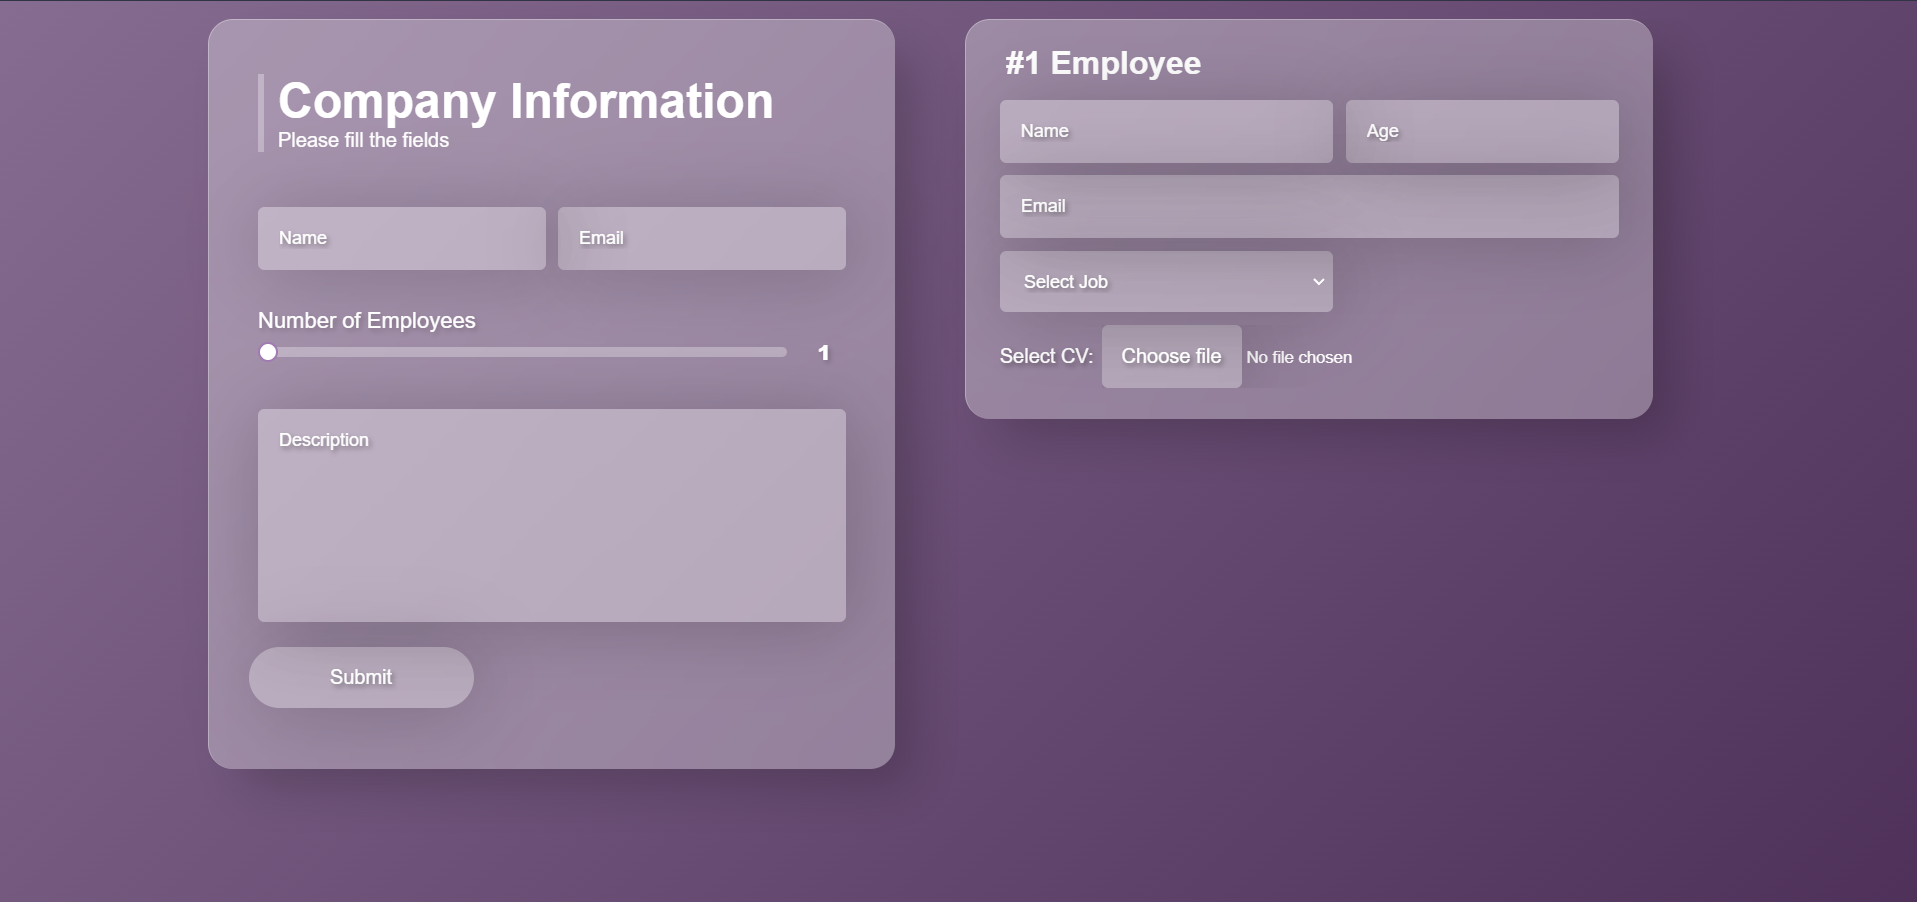
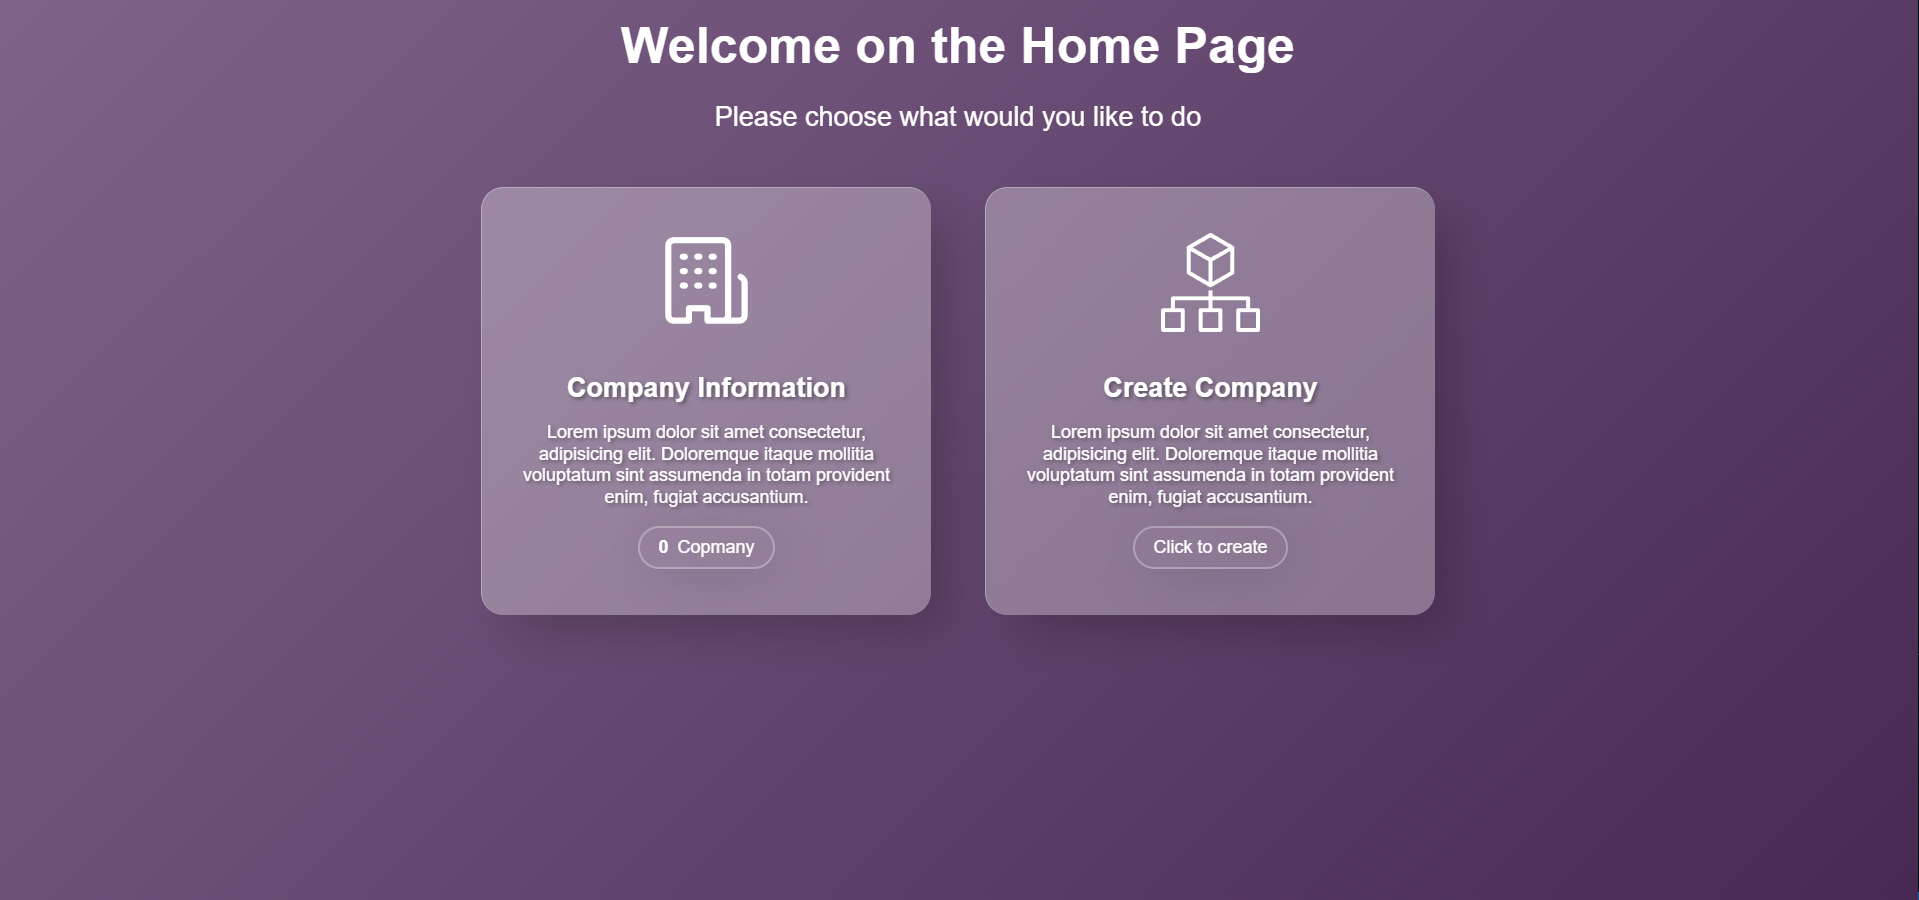
Added new home page

diff --git a/frontend/src/pages/MainPage.tsx b/frontend/src/pages/MainPage.tsx
@@ -1,70 +1,86 @@
-/* 
-  Home page for "/" route.
-*/
-
-import { useState, useEffect } from "react";
-import { useGlobalContext } from "../context";
-/* Import components */
-import CompanyDataForm from "../components/CompanyDataForm";
-import EmployeeDataForm from "../components/EmployeeDataForm";
-import TopScrollButton from "../components/TopScrollButton";
+import React from "react";
+import Background from "../layout/Background";
+import { GoOrganization } from "react-icons/go";
+import { SiAwsorganizations } from "react-icons/si";
+import { useNavigate } from "react-router-dom";
 
 const MainPage = () => {
-  const { numberOfEmployees } = useGlobalContext();
-  const [numberOfForms, setNumberOfForms] = useState<number[]>([]);
+  const navigate = useNavigate();
 
-  useEffect(() => {
-    /* Renders the number of employee forms based on how many employees setted on the slider */
-    setNumberOfForms([]);
-    for (let i = 0; i < numberOfEmployees; ++i) {
-      /* Append the 'i' value to the 'numberOfForms' array */
-      setNumberOfForms((prevForms) => [...prevForms, i]);
-    }
-
-    return () => {};
-  }, [numberOfEmployees]); // if the numberOfEmployees state variable change then re-render this component
   return (
-    <>
-      <TopScrollButton />
-      <div className="container">
-        <section className="company-section section">
-          <CompanyDataForm />
-        </section>
-        <section className="employee-section">
+    <Background>
+      <main
+        style={{
+          color: "white",
+          height: "100%",
+          width: "100%",
+          display: "flex",
+          flexDirection: "column",
+          justifyContent: "center",
+          alignItems: "center",
+          gap: "3rem",
+        }}
+      >
+        <header
+          style={{
+            textAlign: "center",
+            display: "flex",
+            flexDirection: "column",
+            gap: "1.5rem",
+          }}
+        >
+          <h1 style={{ fontSize: "clamp(2.2rem, 5vw, 2.8rem)" }}>
+            Welcome on the Home Page
+          </h1>
+          <p style={{ fontSize: "clamp(1.2rem, 3vw, 1.5rem)" }}>
+            Please choose what would you like to do
+          </p>
+        </header>
+        <section
+          style={{
+            textAlign: "center",
+            display: "flex",
+            justifyContent: "center",
+            flexWrap: "wrap",
+            gap: "3rem",
+          }}
+        >
           <div
-            className="employee-list"
-            onScroll={(e) => {
-              /* if the user scrolls the scrollbar become visible */
-              if (
-                (e.target as HTMLElement).classList.contains("on-scroll") ===
-                false
-              ) {
-                (e.target as HTMLElement).classList.add("on-scroll");
-              }
-            }}
-            onMouseEnter={(e) => {
-              /* Show scrollbar when the mouse enter in this element */
-              (e.target as HTMLElement).classList.add("on-scroll");
-            }}
-            onMouseLeave={(e) => {
-              /* Hide scrollbar when the mouse leave this element */
-              (e.target as HTMLElement).classList.remove("on-scroll");
-            }}
+            className="main-card section"
+            onClick={() => navigate("/companies")}
           >
-            {/* If number of employees is zero then show a message but if it is not zero then render employee forms */}
-            {numberOfEmployees === 0 ? (
-              <h4 className="zero-employee">Number of Employees is zero!</h4>
-            ) : (
-              numberOfForms.map((employeeForm, index) => {
-                return (
-                  <EmployeeDataForm key={index} number={employeeForm + 1} />
-                );
-              })
-            )}
+            <div className="main-card-icon">
+              <GoOrganization />
+            </div>
+            <span className="main-card-title">Company Information</span>
+            <p className="main-card-description">
+              Lorem ipsum dolor sit amet consectetur, adipisicing elit.
+              Doloremque itaque mollitia voluptatum sint assumenda in totam
+              provident enim, fugiat accusantium.
+            </p>
+            <div className="main-page-indicator">
+              <span style={{ fontWeight: "600" }}>0</span>
+              <span>Copmany</span>
+            </div>
+          </div>
+          <div
+            className="main-card section"
+            onClick={() => navigate("/create-company")}
+          >
+            <div className="main-card-icon">
+              <SiAwsorganizations />
+            </div>
+            <span className="main-card-title">Create Company</span>
+            <p className="main-card-description">
+              Lorem ipsum dolor sit amet consectetur, adipisicing elit.
+              Doloremque itaque mollitia voluptatum sint assumenda in totam
+              provident enim, fugiat accusantium.
+            </p>
+            <div className="main-page-indicator">Click to create</div>
           </div>
         </section>
-      </div>
-    </>
+      </main>
+    </Background>
   );
 };
 

diff --git a/frontend/src/pages/CreateCompanyWithEmployees.tsx b/frontend/src/pages/CreateCompanyWithEmployees.tsx
@@ -1,0 +1,72 @@
+/* 
+  Page for "/create-company" route.
+*/
+
+import { useState, useEffect } from "react";
+import { useGlobalContext } from "../context";
+/* Import components */
+import CompanyDataForm from "../components/CompanyDataForm";
+import EmployeeDataForm from "../components/EmployeeDataForm";
+import TopScrollButton from "../components/TopScrollButton";
+import Background from "../layout/Background";
+
+const CreateCompanyWithEmployees = () => {
+  const { numberOfEmployees } = useGlobalContext();
+  const [numberOfForms, setNumberOfForms] = useState<number[]>([]);
+
+  useEffect(() => {
+    /* Renders the number of employee forms based on how many employees setted on the slider */
+    setNumberOfForms([]);
+    for (let i = 0; i < numberOfEmployees; ++i) {
+      /* Append the 'i' value to the 'numberOfForms' array */
+      setNumberOfForms((prevForms) => [...prevForms, i]);
+    }
+
+    return () => {};
+  }, [numberOfEmployees]); // if the numberOfEmployees state variable change then re-render this component
+  return (
+    <>
+      <TopScrollButton />
+      <Background>
+        <section className="company-section section">
+          <CompanyDataForm />
+        </section>
+        <section className="employee-section">
+          <div
+            className="employee-list"
+            onScroll={(e) => {
+              /* if the user scrolls the scrollbar become visible */
+              if (
+                (e.target as HTMLElement).classList.contains("on-scroll") ===
+                false
+              ) {
+                (e.target as HTMLElement).classList.add("on-scroll");
+              }
+            }}
+            onMouseEnter={(e) => {
+              /* Show scrollbar when the mouse enter in this element */
+              (e.target as HTMLElement).classList.add("on-scroll");
+            }}
+            onMouseLeave={(e) => {
+              /* Hide scrollbar when the mouse leave this element */
+              (e.target as HTMLElement).classList.remove("on-scroll");
+            }}
+          >
+            {/* If number of employees is zero then show a message but if it is not zero then render employee forms */}
+            {numberOfEmployees === 0 ? (
+              <h4 className="zero-employee">Number of Employees is zero!</h4>
+            ) : (
+              numberOfForms.map((employeeForm, index) => {
+                return (
+                  <EmployeeDataForm key={index} number={employeeForm + 1} />
+                );
+              })
+            )}
+          </div>
+        </section>
+      </Background>
+    </>
+  );
+};
+
+export default CreateCompanyWithEmployees;

diff --git a/frontend/src/style/mainPage.css b/frontend/src/style/mainPage.css
@@ -1,0 +1,46 @@
+.main-card {
+  width: 400px;
+  height: 380px;
+
+  display: flex;
+  gap: 1rem;
+  flex-direction: column;
+  justify-content: center;
+  align-items: center;
+  cursor: pointer;
+  transition: transform 0.3s ease-in-out;
+}
+@media screen and (max-width: 768px) {
+  .main-card {
+    width: 95%;
+  }
+}
+.main-card:hover {
+  transform: scale(1.05);
+}
+.main-card-icon {
+  font-size: 5.5rem;
+}
+.main-card-title {
+  font-size: 1.5rem;
+  font-weight: bold;
+  text-shadow: var(--text-shadow);
+}
+.main-card-description {
+  font-size: 1rem;
+  text-align: center;
+  text-shadow: var(--text-shadow);
+  line-height: 1.2;
+}
+.main-page-indicator {
+  display: flex;
+  justify-content: center;
+  align-items: center;
+  gap: 0.5rem;
+  font-weight: 500;
+  font-size: 1rem;
+  border: 2px solid var(--glassmorphic);
+  border-radius: 25px;
+  padding: 0.5rem 1rem;
+  box-shadow: 5px 5px 50px -6px rgba(0, 0, 0, 0.2);
+}

diff --git a/frontend/src/pages/ResultsPage.tsx b/frontend/src/pages/ResultsPage.tsx
@@ -11,6 +11,7 @@ import { MdOutlineEmail, MdDescription } from "react-icons/md";
 /* Import components */
 import TopScrollButton from "../components/TopScrollButton";
 import HomeButton from "../components/HomeButton";
+import Background from "../layout/Background";
 
 const ResultsPage = () => {
   const { dataJSON } = useGlobalContext();
@@ -36,7 +37,7 @@ const ResultsPage = () => {
   return (
     <>
       <HomeButton />
-      <div className="container results-page">
+      <Background className="results-page">
         <section className="company-card results-section">
           <h1>company information</h1>
           <div className="company-details">
@@ -109,7 +110,7 @@ const ResultsPage = () => {
             })}
           </div>
         </section>
-      </div>
+      </Background>
       <TopScrollButton />
     </>
   );

diff --git a/frontend/src/App.tsx b/frontend/src/App.tsx
@@ -1,9 +1,10 @@
 import { BrowserRouter as Router, Routes, Route } from "react-router-dom";
 import { ToastContainer } from "react-toastify";
 // import pages
-import MainPage from "./pages/MainPage";
+import CreateCompanyWithEmployees from "./pages/CreateCompanyWithEmployees";
 import ErrorPage from "./pages/ErrorPage";
 import ResultsPage from "./pages/ResultsPage";
+import MainPage from "./pages/MainPage";
 
 const App = () => {
   return (
@@ -11,6 +12,10 @@ const App = () => {
       <Router>
         <Routes>
           <Route path="/" element={<MainPage />} />
+          <Route
+            path="/create-company"
+            element={<CreateCompanyWithEmployees />}
+          />
           <Route path="results" element={<ResultsPage />} />
           <Route path="/*" element={<ErrorPage />} />
         </Routes>

diff --git a/frontend/src/pages/ErrorPage.tsx b/frontend/src/pages/ErrorPage.tsx
@@ -4,17 +4,18 @@
 */
 
 import { FaHome } from "react-icons/fa";
+import Background from "../layout/Background";
 
 const ErrorPage = () => {
   return (
-    <div className="container error-page">
+    <Background className="error-page">
       <h1>404</h1>
       <h3>Page Not Found</h3>
       <a href="/">
         <FaHome />
         Home
       </a>
-    </div>
+    </Background>
   );
 };
 

diff --git a/frontend/src/layout/Background.tsx b/frontend/src/layout/Background.tsx
@@ -1,0 +1,12 @@
+import React from "react";
+
+interface BackgroundProps {
+  children: React.ReactNode | React.ReactElement;
+  className?: string;
+}
+
+const Background = ({ children, className = "" }: BackgroundProps) => {
+  return <div className={`container ${className}`}>{children}</div>;
+};
+
+export default Background;

diff --git a/frontend/src/main.tsx b/frontend/src/main.tsx
@@ -6,6 +6,7 @@ import "./style/index.css";
 import "./style/customSelect.css";
 import "./style/topScrollButton.css";
 import "./style/homeButton.css";
+import "./style/mainPage.css";
 import "react-toastify/dist/ReactToastify.css";
 import { GlobalContextProvider } from "./context";
 

diff --git a/README.md b/README.md
@@ -2,9 +2,10 @@
 
 Application seperated three pages:
 
-- "/" home page
-- "/results" where after the form submission the data going to be represented
-- "/\*" error page: when the user navigates to a non-implemented page
+- `"/"` home page
+- `"/create company"` where the user be able to create company
+- `"/results"` where after the form submission the data going to be represented
+- `"/\*"` error page: when the user navigates to a non-implemented page
 
 The pages have very clean looking and designed make the page easy to use for the user. Every single page is responsive so it will look good on mobile and large screens.
 
@@ -12,9 +13,15 @@ The pages have very clean looking and designed make the page easy to use for the
 
 ### Home Page "/"
 
-The home page includes a company form section where the user be able to give the company name, email address, number of employees and a short description about company. Furthermore there is an employees section on the home page which is dinamically rendered it depends on how many number of employees were given in the comapny section. In the employees section the user will be able to give the employee name, age, email, job and cv pdf file. The user can submit the forms with the submit button in the company section. After the user clicks on the submit button and all the required fields is filled then it navigates to the results page where the entered values will be represented.
+The MainPage component is a React component that renders the main page of the application. It contains two sections, one for displaying company information and another for creating a new company.
 
 ![home-page-image](/docs/images/main-page.png)
+
+### Create Company "/create-company"
+
+The create company page includes a company form section where the user be able to give the company name, email address, number of employees and a short description about company. Furthermore there is an employees section on the home page which is dinamically rendered it depends on how many number of employees were given in the comapny section. In the employees section the user will be able to give the employee name, age, email, job and cv pdf file. The user can submit the forms with the submit button in the company section. After the user clicks on the submit button and all the required fields is filled then it navigates to the results page where the entered values will be represented.
+
+![create-company-image](/docs/images/create-company.png)
 
 ---
 
